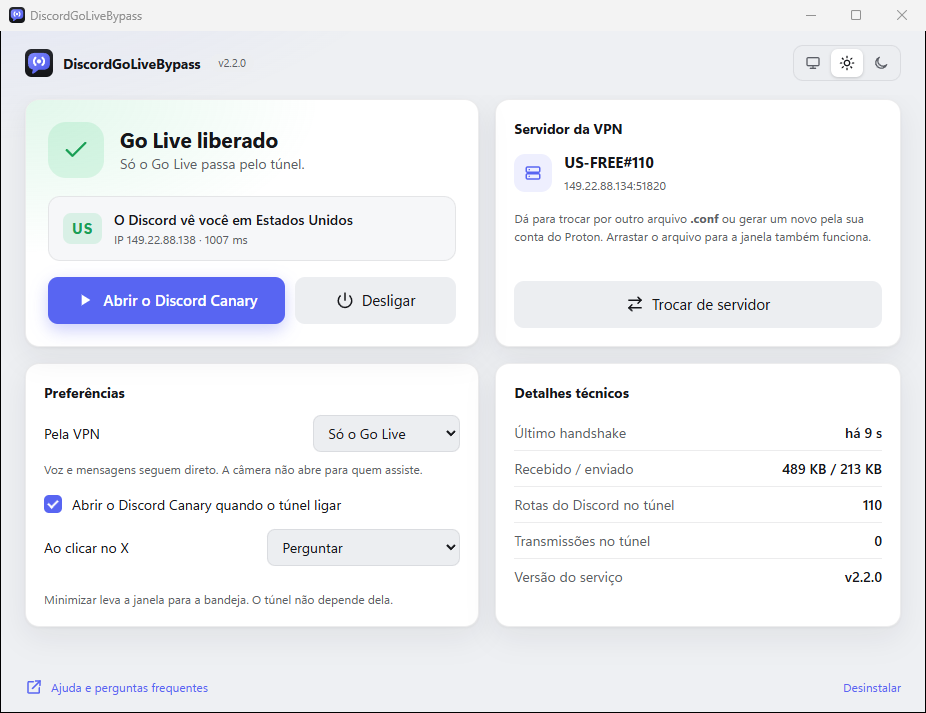
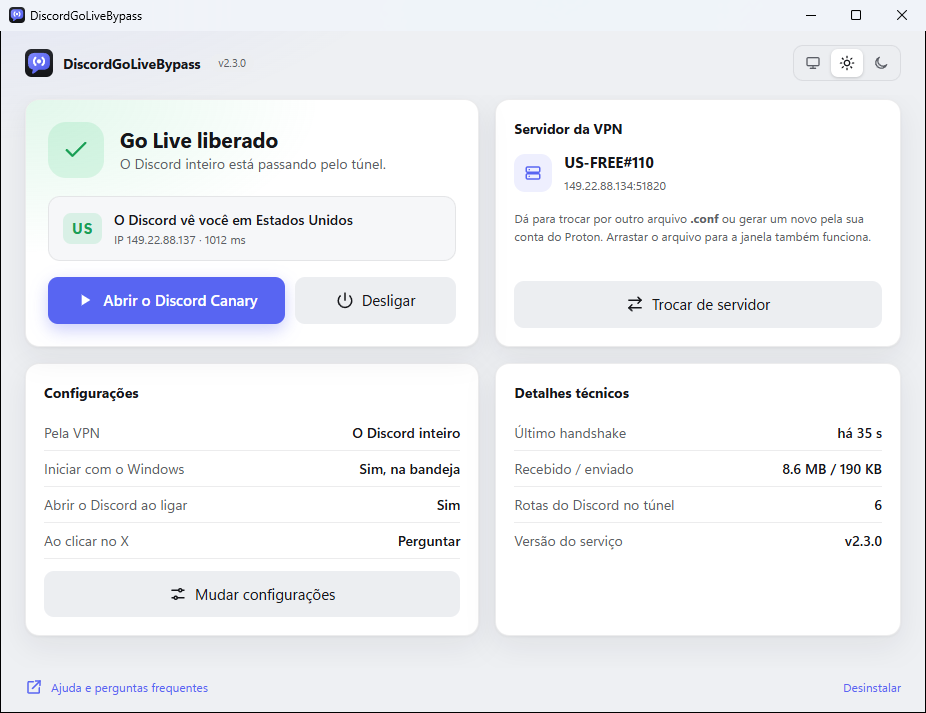
📚 docs: iniciar com o windows e configurações

diff --git a/README.md b/README.md
@@ -19,7 +19,7 @@
 Você abre o programa, entra com a sua conta gratuita do Proton VPN ou escolhe um arquivo WireGuard, e clica em Ativar. A partir daí um serviço do Windows mantém um túnel que leva para fora do Brasil só o que o Discord precisa para liberar o Go Live, desde que o computador liga. Você abre o Discord pelo atalho de sempre e o Go Live funciona.
 
 <p align="center">
-  <img src="docs/janela-escura.png" alt="Janela do DiscordGoLiveBypass no tema escuro, com o Go Live liberado e só a transmissão passando pelo túnel" width="49%">
+  <img src="docs/janela-escura.png" alt="Janela do DiscordGoLiveBypass no tema escuro, com o Go Live liberado e o resumo das configurações" width="49%">
   <img src="docs/janela-clara.png" alt="A mesma janela no tema claro" width="49%">
 </p>
 
@@ -63,23 +63,30 @@ Qualquer outra VPN que entregue um arquivo WireGuard serve do mesmo jeito, e que
 1. Baixe o `.zip` na aba [Releases](../../releases) e extraia numa pasta.
 2. Abra o `DiscordGoLiveBypass.exe`.
 3. Entre com a conta do Proton, ou deixe a janela achar o `.conf` que você baixou: ele aparece sozinho na lista, vindo da pasta Downloads. Se estiver em outro lugar, arraste para a janela ou clique em **Escolher**.
-4. Clique em **Ativar** e responda **Sim** no aviso do Windows. É a única vez que ele pede permissão de administrador: para instalar o serviço que mantém o túnel.
+4. Confira as duas opções ao lado do botão: abrir o Discord quando o túnel ligar e **Iniciar com o Windows, com o ícone na bandeja**. As duas vêm marcadas.
+5. Clique em **Ativar** e responda **Sim** no aviso do Windows. É a única vez que ele pede permissão de administrador: para instalar o serviço que mantém o túnel.
 
-Com a opção marcada, o Discord abre sozinho quando o túnel liga. Se ele já estava aberto, a janela avisa para reiniciar, para as conexões que ele já tinha também passarem pelo túnel.
+Com a primeira opção marcada, o Discord abre sozinho quando o túnel liga. Se ele já estava aberto, a janela avisa para reiniciar, para as conexões que ele já tinha também passarem pelo túnel.
 
 A instalação copia o programa para Arquivos de Programas e põe um atalho no menu Iniciar. O `.zip` baixado pode ir para a lixeira.
 
 ### No dia a dia
 
-Nada. O túnel liga sozinho quando o Windows inicia, e você abre o Discord pelo atalho de sempre.
+Com **Iniciar com o Windows** ligado, nada. O túnel liga junto com o computador, e quando você entra na sua conta o programa abre na bandeja, perto do relógio, só com o ícone. Ele nunca fica rodando escondido: se o túnel está ligado, o ícone está lá. O Windows 11 costuma guardar ícone novo atrás da setinha da bandeja; para deixá-lo sempre à vista, arraste-o para fora dela. Você abre o Discord pelo atalho de sempre.
 
-A janela serve para ver e mexer: mostra em que país o Discord vê você, liga e desliga o túnel, troca o servidor e abre o Discord. Minimizar esconde a janela na bandeja, perto do relógio, e o menu do ícone faz as mesmas coisas. O tema claro, escuro ou o do Windows se escolhe no canto de cima.
+Com a opção desligada, nada do programa roda quando o computador liga. O túnel sobe quando você abre o DiscordGoLiveBypass, e a janela pode ir para a bandeja enquanto você usa o Discord.
 
-O X pergunta o que você quer: deixar o programa na bandeja, com o túnel ligado e o Go Live funcionando, ou desligar o túnel e fechar. Marcando **Não perguntar de novo**, a escolha vira o padrão, e dá para trocá-la nas preferências.
+A janela serve para ver e mexer: mostra em que país o Discord vê você, liga e desliga o túnel, troca o servidor e abre o Discord. Minimizar esconde a janela na bandeja, e o menu do ícone faz as mesmas coisas. O tema claro, escuro ou o do Windows se escolhe no canto de cima.
+
+O X pergunta o que você quer: deixar o programa na bandeja, com o túnel ligado e o Go Live funcionando, ou desligar o túnel e fechar. Marcando **Não perguntar de novo**, a escolha vira o padrão, e dá para trocá-la nas configurações.
+
+### Configurações
+
+O cartão **Configurações** do painel mostra as escolhas que mudam o que roda no seu computador, e **Mudar configurações** abre a tela onde elas se trocam: o que passa pela VPN e se o programa inicia com o Windows, na parte do túnel, e se o Discord abre quando o túnel liga e o que o X faz, na parte da janela.
 
 ### Só o Go Live ou o Discord inteiro
 
-Nas preferências da janela, **Pela VPN** escolhe o que passa pelo túnel.
+Nas configurações, **Pela VPN** escolhe o que passa pelo túnel.
 
 **Só o Go Live** é o padrão. Pelo túnel vão o gateway e a API do Discord, que é onde ele decide o que a conta pode fazer, e cada transmissão, só enquanto ela está aberta, seja a sua ou uma que você está assistindo. A voz, as mensagens, os anexos e as imagens seguem pela sua conexão, sem atraso, e a chamada fica num servidor do Brasil quando é você quem entra primeiro. A câmera não abre para quem assiste, porque ela viaja na mesma conexão da voz e o Discord decide o bloqueio na hora em que essa conexão nasce.
 
@@ -125,14 +132,21 @@ Dá, e funciona. A diferença é que a VPN comum leva o computador inteiro: o jo
 <summary><strong>Preciso abrir o programa toda vez?</strong></summary>
 <br>
 
-Não. O túnel fica num serviço do Windows, que liga sozinho com o computador. A janela só é necessária para ativar da primeira vez, ver o estado ou trocar alguma coisa.
+Não, se **Iniciar com o Windows** estiver ligado, que é o padrão. O túnel fica num serviço do Windows que liga com o computador, e o programa abre sozinho na bandeja quando você entra na conta. Com a opção desligada, o túnel só sobe quando você abre o programa.
+</details>
+
+<details>
+<summary><strong>Não quero que ele inicie com o Windows</strong></summary>
+<br>
+
+Abra o painel pelo ícone da bandeja, clique em **Mudar configurações** e desligue **Iniciar com o Windows**. O serviço passa a ficar parado quando o computador liga, e o programa some do Iniciar do Windows. Desligar o DiscordGoLiveBypass na aba **Inicializar** do Gerenciador de Tarefas tem o mesmo efeito: da próxima vez que você abrir o programa, ele vê a escolha e acerta o serviço junto.
 </details>
 
 <details>
 <summary><strong>O que fica instalado no meu computador?</strong></summary>
 <br>
 
-Um serviço chamado `DiscordGoLiveBypass`, o programa em `C:\Program Files\DiscordGoLiveBypass`, um atalho no menu Iniciar e o adaptador de rede do túnel, com o driver WireGuardNT. A configuração da VPN, com a chave, fica em `C:\ProgramData\DiscordGoLiveBypass`, numa pasta que só o sistema e os administradores leem. O tema e as outras escolhas da janela ficam em `%APPDATA%\DiscordGoLiveBypass`.
+Um serviço chamado `DiscordGoLiveBypass`, o programa em `C:\Program Files\DiscordGoLiveBypass`, um atalho no menu Iniciar e o adaptador de rede do túnel, com o driver WireGuardNT. A configuração da VPN, com a chave, fica em `C:\ProgramData\DiscordGoLiveBypass`, numa pasta que só o sistema e os administradores leem. O tema e as outras escolhas da janela ficam em `%APPDATA%\DiscordGoLiveBypass`. Com **Iniciar com o Windows** ligado, há também uma entrada no Iniciar do Windows da sua conta, a mesma que aparece no Gerenciador de Tarefas.
 
 **Desinstalar**, no canto de baixo da janela, remove tudo isso, inclusive o driver.
 </details>
@@ -193,7 +207,7 @@ No modo **O Discord inteiro**, o registro não é usado para nada.
 <summary><strong>Eu usava a 2.1, o que muda?</strong></summary>
 <br>
 
-Depois de atualizar, o túnel começa no modo **Só o Go Live**: a voz volta para a sua conexão e a chamada para um servidor do Brasil. Se você usa câmera, troque para **O Discord inteiro** nas preferências. Feche o Discord pela bandeja, em **Sair**, e abra de novo, para ele refazer o teste de latência pela sua conexão.
+Depois de atualizar, o túnel começa no modo **Só o Go Live**: a voz volta para a sua conexão e a chamada para um servidor do Brasil. Se você usa câmera, troque para **O Discord inteiro** nas configurações. Feche o Discord pela bandeja, em **Sair**, e abra de novo, para ele refazer o teste de latência pela sua conexão.
 </details>
 
 <details>
@@ -255,7 +269,7 @@ Se a transmissão abre, mas quem assiste fica carregando, olhe as linhas de serv
 <summary><strong>A câmera não abre para quem assiste</strong></summary>
 <br>
 
-No modo **Só o Go Live**, é esperado. A câmera viaja na mesma conexão da voz, e o Discord decide se ela pode ser vista na hora em que essa conexão nasce, pelo IP de onde ela vem. Trocar o caminho no meio da chamada não muda a decisão. Para usar a câmera, troque para **O Discord inteiro** nas preferências, saia da chamada e entre de novo.
+No modo **Só o Go Live**, é esperado. A câmera viaja na mesma conexão da voz, e o Discord decide se ela pode ser vista na hora em que essa conexão nasce, pelo IP de onde ela vem. Trocar o caminho no meio da chamada não muda a decisão. Para usar a câmera, troque para **O Discord inteiro** nas configurações, saia da chamada e entre de novo.
 </details>
 
 <details>
@@ -311,6 +325,8 @@ Trocar de modo, ou abrir e fechar uma transmissão, mexe só nas rotas que mudar
 
 As rotas só entram depois que o servidor da VPN responde ao primeiro handshake, e saem se ele passar três minutos sem responder. Um servidor fora do ar nunca deixa o Discord sem conexão: no máximo sem Go Live, até ele voltar.
 
+Iniciar com o Windows mexe em duas coisas, e as duas andam juntas. Uma é o tipo de início do serviço, automático ou manual, que o próprio serviço troca quando a janela pede. A outra é uma entrada em `HKCU\Software\Microsoft\Windows\CurrentVersion\Run`, no registro de quem instalou, que abre a janela com `-bandeja` ao entrar na conta: ela nasce escondida, só com o ícone, e aparece por inteiro se a bandeja não estiver disponível. Sem a entrada, o túnel ficaria ligado sem nada na tela, e é por isso que a janela não liga uma coisa sem a outra. Se a entrada for desligada no Gerenciador de Tarefas, a janela vê a marca que ele deixa e passa o serviço para manual. Com o serviço em início manual, quem o põe de pé é a janela, sem administrador: a instalação dá ao dono o direito de iniciar o serviço e de consultá-lo, e parar ou reconfigurar continuam só com o sistema e os administradores.
+
 A janela e o serviço conversam por um named pipe que só aceita o sistema, os administradores e o usuário que instalou. Antes de mandar a chave da VPN, a janela confere que o dono do pipe é o sistema, para nenhum outro programa poder se passar pelo serviço. Para mostrar o país, a janela pergunta ao gateway do Discord, em `gateway.discord.gg/cdn-cgi/trace`, com que IP e de que país você chega. É o IP do gateway que decide o que a conta pode fazer, e o pedido faz o mesmo caminho que o app.
 
 O login do Proton roda na janela, sem administrador. Ele faz o SRP com a [biblioteca do próprio Proton](https://github.com/ProtonMail/go-srp), escolhe na lista do Proton o servidor gratuito de menor pontuação fora do Brasil, gera um par de chaves Ed25519, pede um certificado para a chave pública e deriva dela a chave X25519 que o WireGuard usa, a mesma conta que a biblioteca de VPN do Proton faz. A configuração vai para o serviço pelo mesmo pipe de um arquivo importado e não passa pelo disco do usuário. O CAPTCHA do Proton se recusa a ser mostrado dentro de outra página, mas foi feito para rodar num WebView2, então abre numa janela própria, num processo separado: se algo der errado ali, só a janelinha fecha.
@@ -328,7 +344,8 @@ Precisa do [Go](https://go.dev/dl/). No PowerShell, na pasta do projeto:
 | arquivo | conteúdo |
 | --- | --- |
 | `main_windows.go` | escolhe entre janela, serviço, instalação e remoção |
-| `gui_windows.go` | métodos que a página chama, preferências e tema |
+| `gui_windows.go` | métodos que a página chama, preferências, tema e o início com o Windows visto pela janela |
+| `startup_windows.go` | a entrada da janela no Iniciar do Windows e a marca do Gerenciador de Tarefas |
 | `frontend/` | a página da janela |
 | `tray_windows.go` | ícone na bandeja, direto na API do Windows |
 | `service_windows.go` | serviço, instalação, remoção e a pasta protegida da configuração |

diff --git a/CONTRIBUTING.md b/CONTRIBUTING.md
@@ -29,6 +29,8 @@ Para gerar o executável igual ao da release, com o driver WireGuardNT embutido:
 
 Testar o túnel de verdade pede três coisas que a CI não tem: administrador, um Discord instalado e um arquivo WireGuard seu. Se a sua mudança mexe no serviço, no túnel ou nas rotas (`service_windows.go`, `engine_windows.go`, `state.go`, `routes.go`, `split.go`, `watch.go`, `logtail_windows.go`), rode o programa compilado, ative, abra uma call e diga no pull request o que você testou: assistir a uma transmissão, transmitir, desligar e ligar o túnel pela janela, nos dois modos. No modo **Só o Go Live**, confira também que a voz ficou num servidor perto de você e que **Transmissões no túnel** sobe quando a transmissão abre e volta a 0 quando ela fecha. Se mexe na janela (`gui_windows.go`, `tray_windows.go` ou `frontend/`), confira os dois temas e a bandeja. O `Validar-rota.ps1` ajuda a mostrar que o tráfego saiu pelo adaptador certo.
 
+Se mexe no início com o Windows (`startup_windows.go`, o `set_autostart` do serviço ou a abertura com `-bandeja`), confira as duas pontas: o tipo de início do serviço, com `sc.exe qc DiscordGoLiveBypass`, e a entrada `DiscordGoLiveBypass` em `HKCU\Software\Microsoft\Windows\CurrentVersion\Run`. Com a opção ligada, rode o comando gravado na entrada e veja a janela abrir escondida, só com o ícone. Com ela desligada, pare o serviço como administrador e abra a janela sem administrador: ela precisa pô-lo de pé sozinha. Se puder, reinicie o computador uma vez para ver o caminho de verdade.
+
 O registro do Discord muda de formato sem aviso, e o `split.go` depende dele. Os testes guardam linhas reais copiadas do `renderer_js.log`; se o Discord mudar alguma, acrescente a linha nova aos testes em vez de trocar a antiga, para quem ainda está numa versão anterior do Discord continuar coberto. Ao copiar linhas do registro, apague as que trazem `local address`, que mostram o seu IP.
 
 Se mexe no login do Proton (`proton.go`, `gui_proton_windows.go`, `captcha_windows.go`), teste com uma conta sua, gratuita serve, e conte no pull request se ela tinha verificação em duas etapas e se apareceu a verificação de robô. Os testes cobrem a conversão de chave e a montagem do arquivo, mas o Proton muda as regras do login sem avisar e só uma conta de verdade mostra isso.
